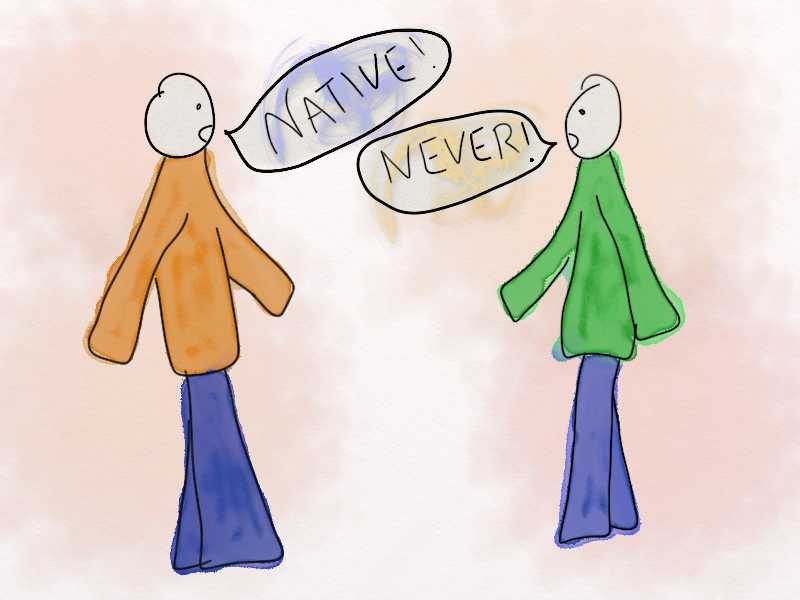
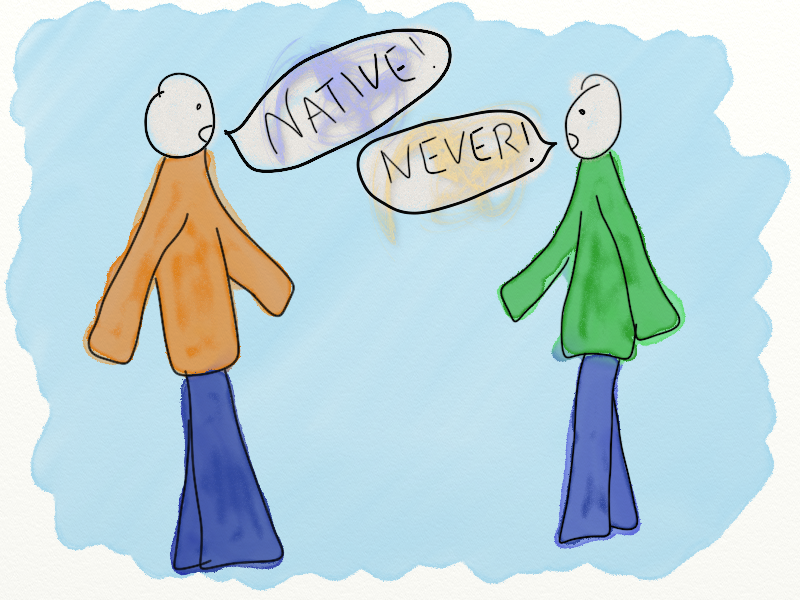
more slides and image changes, and an IE8 workaround

diff --git a/css/style.css b/css/style.css
@@ -116,6 +116,10 @@ h2 {
 	font-size: 1em;
 }
 
+.slideImage {
+	text-align: center;
+}
+
 footer {
 	font-size: .8em;
 	text-align: center;
@@ -125,7 +129,6 @@ footer {
 	body {
 		background-size: 320px;
 	}
-
 }
 
 @media screen and (min-width: 769px) {
